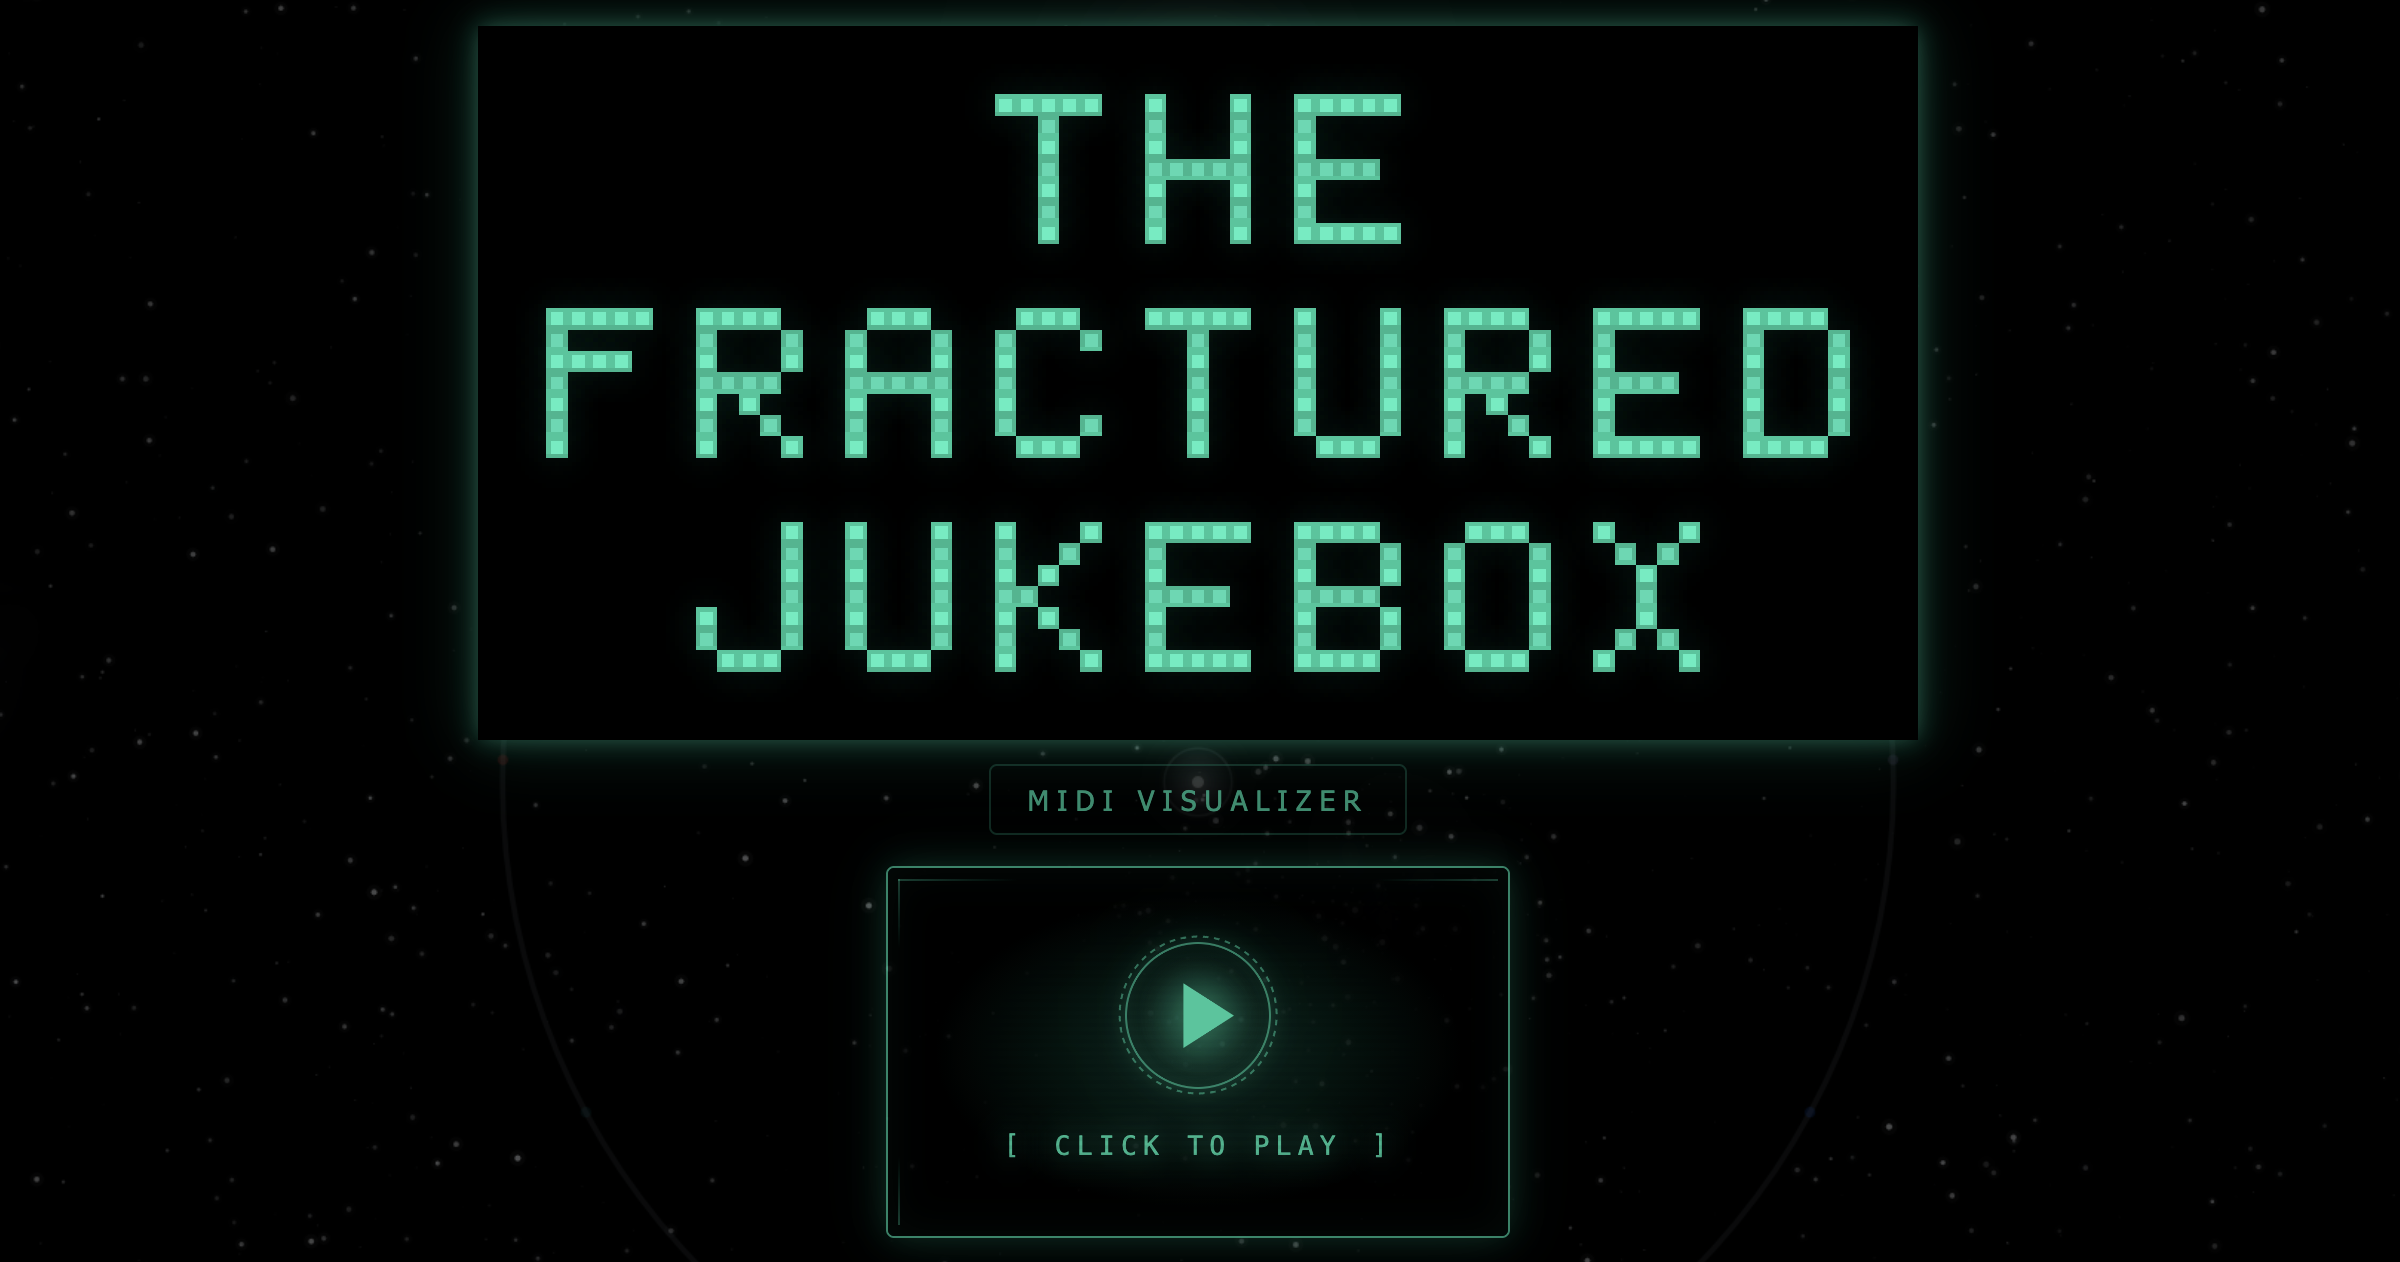
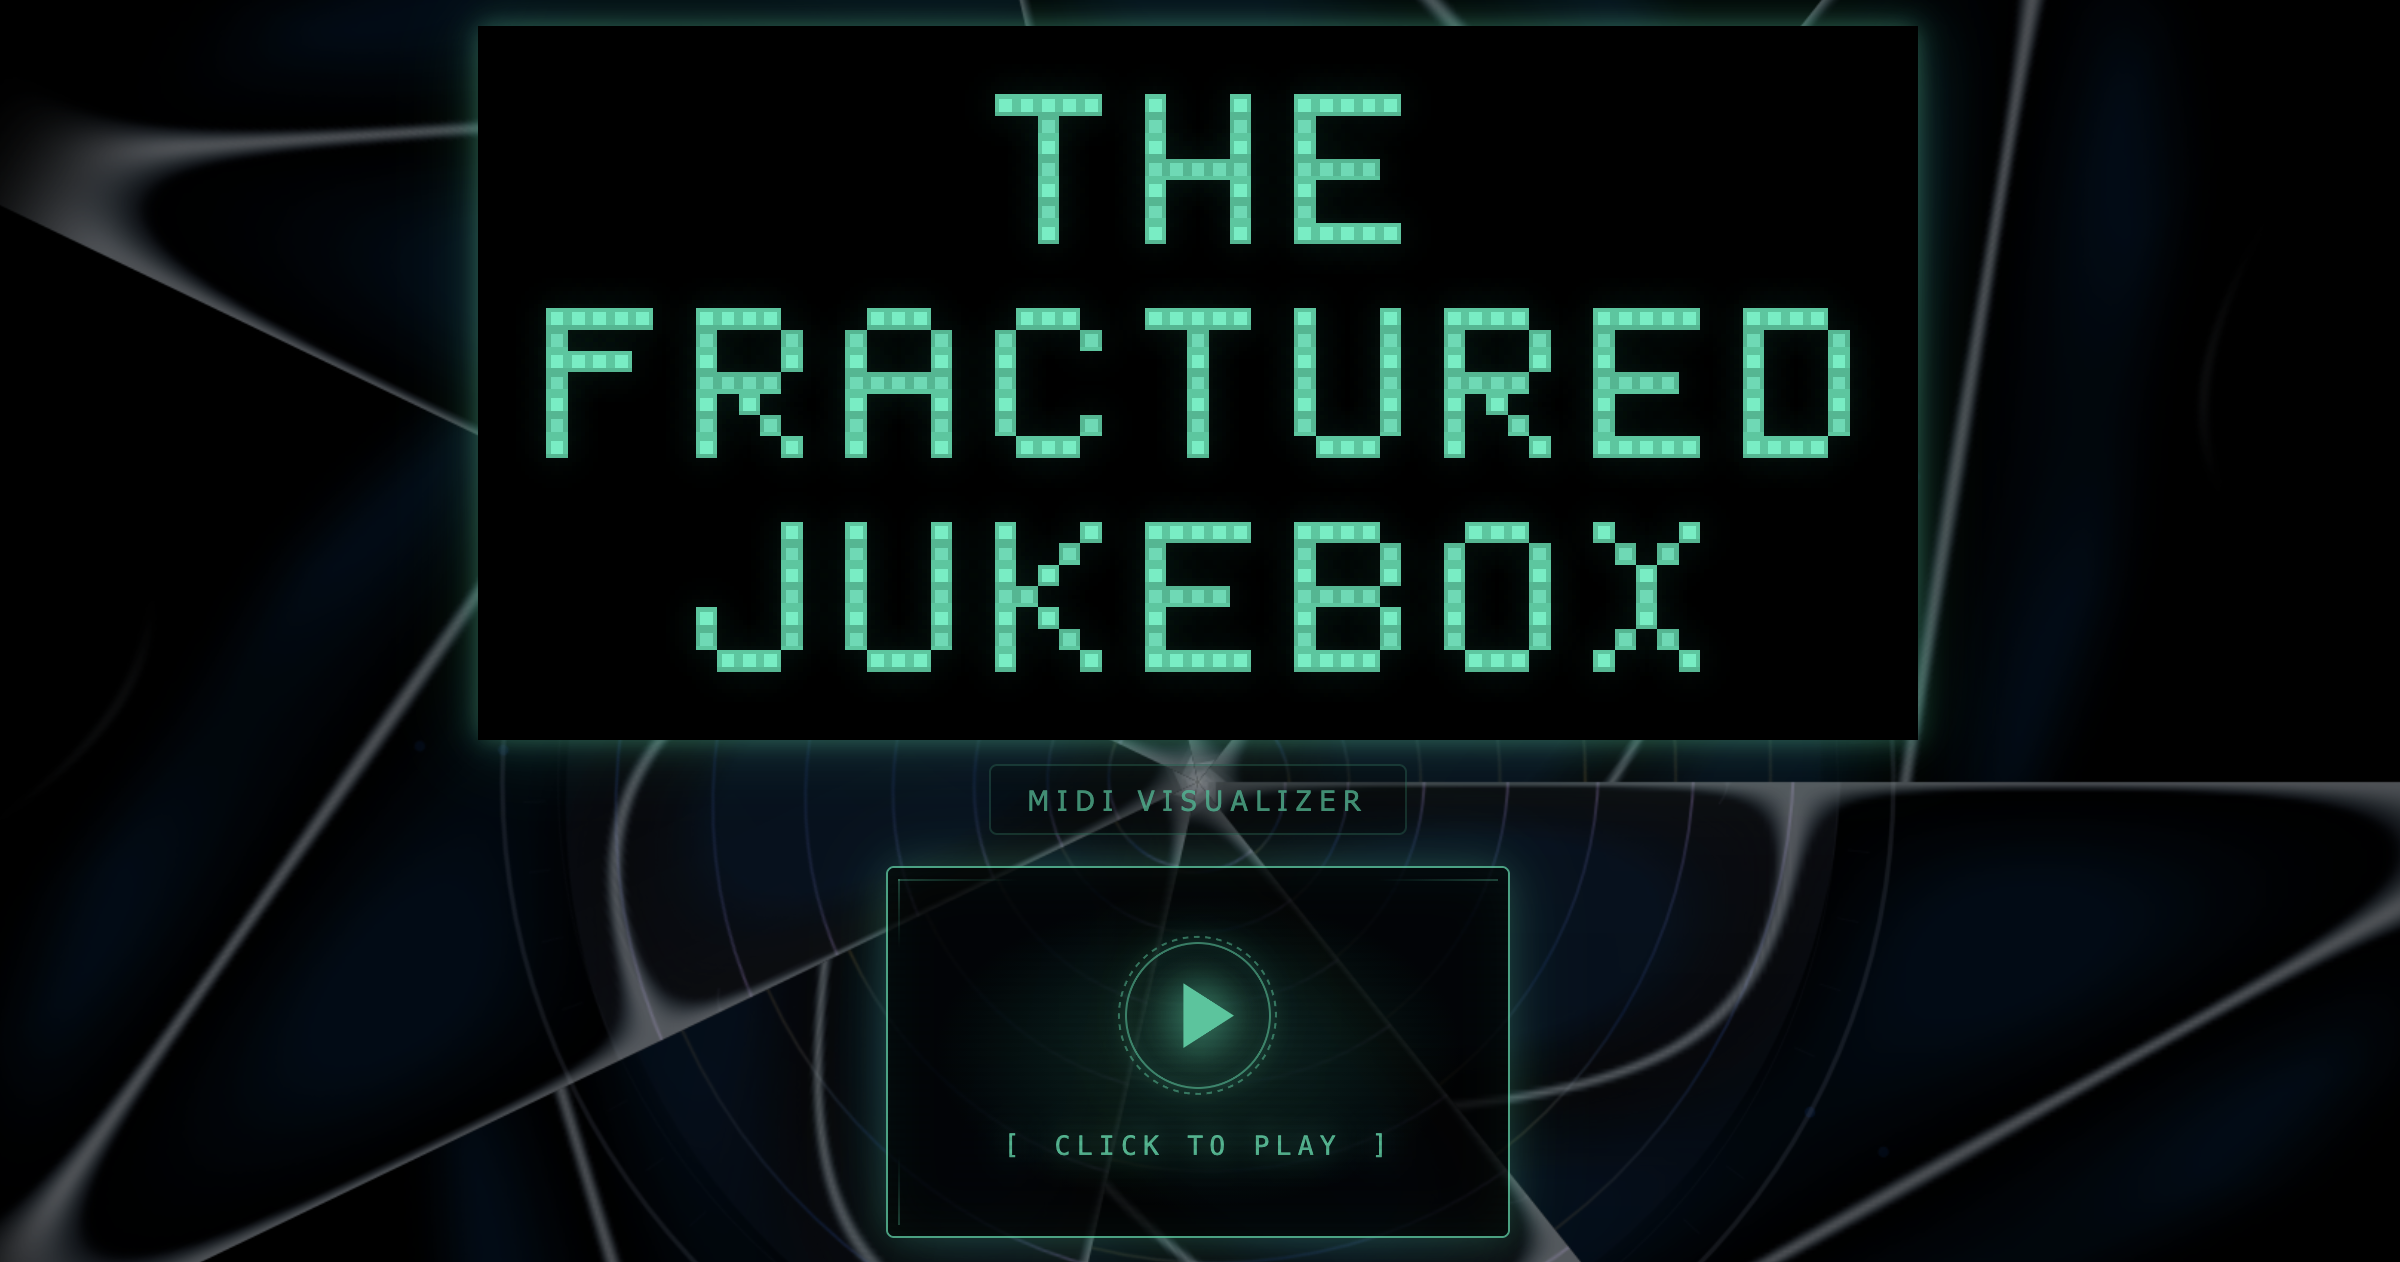
better phone sizing

diff --git a/apps/fractured-jukebox/src/main.ts b/apps/fractured-jukebox/src/main.ts
@@ -406,11 +406,11 @@ function applyURLSettings(): { presetApplied?: string } {
 
   // If no URL params, apply default preset (including configs)
   if (!urlState) {
-    const defaultPreset = getPresetState('stars');
+    const defaultPreset = getPresetState('warp');
     if (defaultPreset) {
       const { overlays } = applyState(defaultPreset, layerSlots, getAllEffects());
       applyOverlaysFromState(overlays);
-      // Sync toggle variables from preset configs (stars disables numerals/notes)
+      // Sync toggle variables from preset configs
       const presetConfigs = defaultPreset.configs ?? {};
       const bassFireConfig = presetConfigs['bass-fire'] as Record<string, unknown> | undefined;
       const melodyConfig = presetConfigs['melody-clock'] as Record<string, unknown> | undefined;
@@ -418,7 +418,7 @@ function applyURLSettings(): { presetApplied?: string } {
       showMelodyNotes = (melodyConfig?.showNotes ?? true) as boolean;
     }
     applySlotSelections();
-    result.presetApplied = 'stars';
+    result.presetApplied = 'warp';
     return result;
   }
 
@@ -1820,7 +1820,7 @@ function syncMelodyNotes(value: boolean): void {
 
 // --- Overlay/toggle persistence ---
 // Only load localStorage values if we have URL params (not default preset)
-// When loading the default 'stars' preset, the preset should be authoritative
+// When loading the default 'warp' preset, the preset should be authoritative
 const hasUrlParams = window.location.search.length > 1;
 
 // Load saved overlay preferences only if URL has params (otherwise preset is authoritative)
@@ -2365,7 +2365,7 @@ for (const [name, btn] of Object.entries(mobileBarPresets)) {
 }
 
 // Sync all preset buttons on initial load (after all button refs are defined)
-syncPresetButtons(urlSettingsResult.presetApplied as PresetName ?? (urlToState(window.location.search) ? null : 'stars'));
+syncPresetButtons(urlSettingsResult.presetApplied as PresetName ?? (urlToState(window.location.search) ? null : 'warp'));
 
 // Quality buttons for fixed render resolution
 // Maps UI names to compositor preset names (fast/balanced/sharp)
@@ -2896,13 +2896,21 @@ function resizeCanvas(): void {
   // Device pixel ratio for sharp rendering (cap at 2 for mobile performance)
   canvasDPR = Math.min(window.devicePixelRatio || 1, 2);
 
-  // On mobile portrait, rotate the canvas 90deg to display 16:9 content
+  // On mobile portrait, rotate the canvas 90deg to fill available space
   if (isMobile && isPortrait) {
-    // Create a landscape 16:9 canvas that will be rotated to fill portrait space
-    const aspect = 16 / 9;
+    // Create a landscape canvas that will be rotated to fill portrait space
     // After 90deg rotation: canvas width becomes visual height, canvas height becomes visual width
-    // We want the rotated canvas to fit: visual width ≤ availW, visual height ≤ availH
-    // So: canvas.height ≤ availW, canvas.width ≤ availH
+    // Relax aspect ratio to fill space (min 4:3, max 16:9)
+    const maxAspect = 16 / 9;
+    const minAspect = 4 / 3;
+
+    // Calculate natural aspect to fill available space
+    // Visual width = canvas.height, visual height = canvas.width
+    // naturalAspect = canvas.width / canvas.height = visual_height / visual_width = availH / availW
+    const naturalAspect = availH / availW;
+    const aspect = Math.max(minAspect, Math.min(maxAspect, naturalAspect));
+
+    // Fill the available space with the clamped aspect ratio
     if (availH / availW > aspect) {
       // Width-constrained: rotated height (canvas.height) limited by availW
       displayHeight = Math.floor(availW);

diff --git a/apps/fractured-jukebox/src/state.ts b/apps/fractured-jukebox/src/state.ts
@@ -531,8 +531,8 @@ export function stateToURL(state: VisualizerState): string {
     }
   }
 
-  // Only include preset param if not the default (stars)
-  if (matchedPreset && matchedPreset !== 'stars') {
+  // Only include preset param if not the default (warp)
+  if (matchedPreset && matchedPreset !== 'warp') {
     params.set('preset', matchedPreset);
   } else if (!matchedPreset) {
     // Encode layers using short names (only non-null)

diff --git a/apps/fractured-jukebox/CLAUDE.md b/apps/fractured-jukebox/CLAUDE.md
@@ -2,7 +2,7 @@
 
 A customizable MIDI file music visualizer. See the structure of music through various views. Uses MIDI analysis to extract rhythmic and harmonic information to drive many visual effects.
 
-**Default preset**: Stars (Starfield + Note Star + Bass Fire)
+**Default preset**: Warp (Chladni + Note Spiral + Kaleidoscope)
 **Default playlist**: Classics (pop & rock)
 
 ## Architecture
@@ -34,9 +34,9 @@ Vanilla TypeScript + Vite, no framework. Matches sibling projects (lissajous, re
 **Layers**: Background (Chladni, Domain Warp, Waves, Flow Field, Starfield) | Foreground (Graph Chain, Note Spiral, Fractal, Piano Roll, Tonnetz) | Overlay (Kaleidoscope) | HUD (Theory Bar) | Melody/Bass clocks and webs
 
 **Presets**:
-- `stars` (default): Starfield + Note Star + Bass Fire
+- `warp` (default): Chladni + Note Spiral + Kaleidoscope + Melody/Bass Clocks
+- `stars`: Starfield + Note Star + Bass Fire
 - `clock`: Starfield + Note Spiral + Melody/Bass Clocks + Theory Bar
-- `warp`: Chladni + Note Spiral + Kaleidoscope + Melody/Bass Clocks
 - `fractal`: Fractal + Kaleidoscope + Melody Web + Theory Bar
 - `piano`: Flow Field + Piano Roll
 - `chain`: Graph Chain + Kaleidoscope
@@ -59,7 +59,7 @@ When cleaning up or resetting to sensible defaults, use these settings:
 - Custom/layer panel: closed by default (`layerPanelOpen = false`)
 - Fractal config panel: open by default
 - Preset button order: Warp, Clock, Stars, Fractal, Chain, Piano
-- Default preset on fresh load: `stars`
+- Default preset on fresh load: `warp`
 - Default playlist: `pop` (Classics)
 
 **Mobile/Canvas**:
